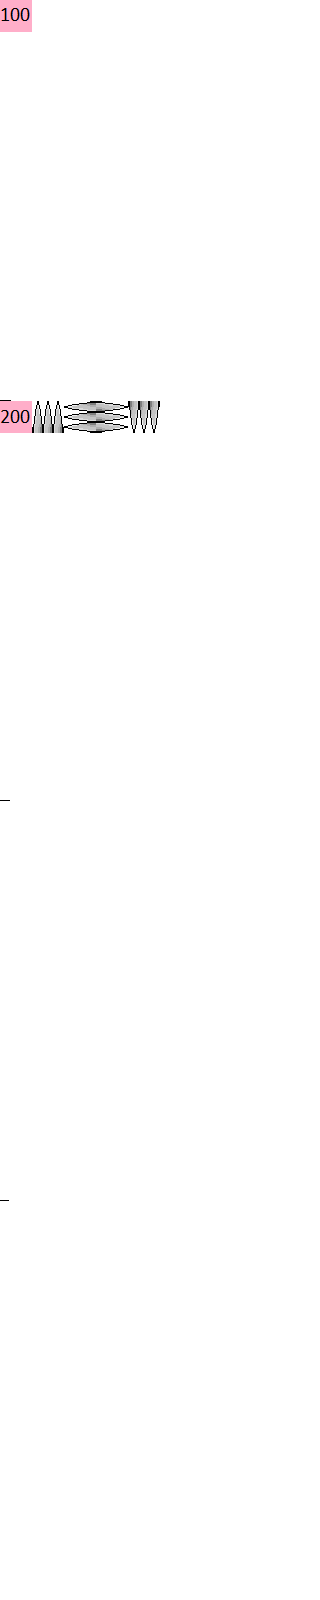
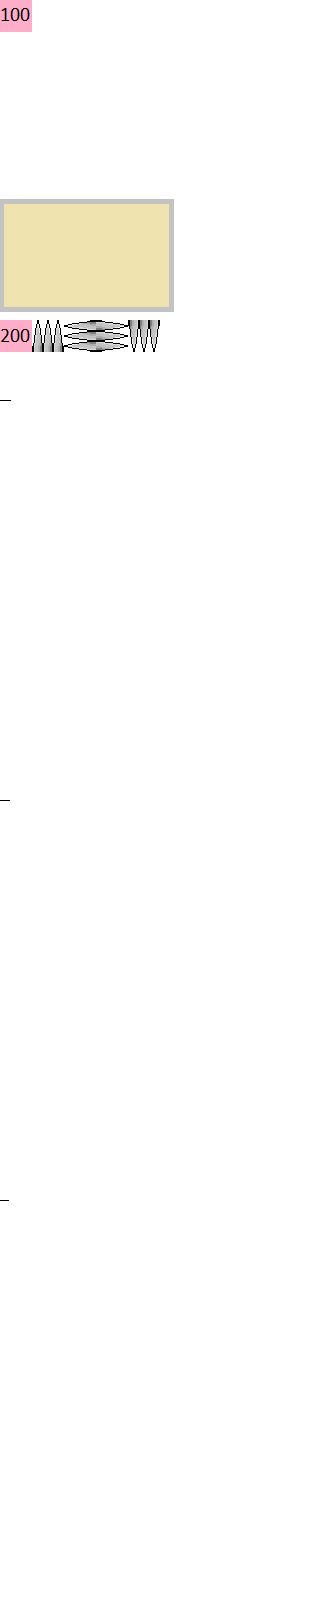
[WIP] display ennemies from Tilemap m_Elements

Changed region(s): [[0.0, 0.125, 0.5625, 0.2188], [0.0, 0.25, 0.5, 0.2812]]

diff --git a/WomxnDevelopUbisoftDemo/Game/TileMap.cpp b/WomxnDevelopUbisoftDemo/Game/TileMap.cpp
@@ -12,17 +12,15 @@ std::vector<Ennemie> TileMap::loadObjects(const std::string& objectset, sf::Vect
 	}
 	
 	// load objectset = image then extract to texture 
-	sf::Image image;
+	/*sf::Image image;
     if (!image.loadFromFile(objectset))
     {
         return std::vector<Ennemie> {};
-    }
+    }*/
         
 	
 	// keep in memory tiles level 
     m_tilesize = tileSize;
-	sf::Vector2u spritesheet = image.getSize();
-    sf::Vector2u n(spritesheet.x / NspriteSize.x, spritesheet.y / NspriteSize.y);
 	
 	std::vector<Ennemie> l_ennemies; 
 	// Find tile of interest 
@@ -30,20 +28,23 @@ std::vector<Ennemie> TileMap::loadObjects(const std::string& objectset, sf::Vect
     for (unsigned int i = 0; i < width; ++i)
         for (unsigned int j = 0; j < height; ++j)
         {
-			if (m_tiles[i + j * width] > 99)
+			if (m_tiles[i + j * width] > 101)
 			{
 				// non movable ennemies 
 				int ntiles = m_tiles[i + j * width] - 100;
-				sf::Vector2u coord((ntiles % n.x)*width, static_cast<unsigned int>(ntiles) / n.x);
-				sf::Vector2f spaw ((i+1) * tileSize.x - tileSize.x/2.0f, (j +1)* tileSize.y - tileSize.y/2.0f);
+                unsigned int tx = (ntiles % NspriteSize.x) * tileSize.x;
+                unsigned int ty = (ntiles / NspriteSize.x) * tileSize.y;
+                sf::Vector2u coord(tx, ty);
+                printf("Coord [x,y] : %d %d \n", tx, ty);
+                sf::Vector2f spaw ((i+1) * tileSize.x - tileSize.x/2.0f, (j +1)* tileSize.y - tileSize.y/2.0f);
                 printf("Tiles n %d \n", i * width + j);
 				if (m_tiles[i + j * width] < 300 && m_tiles[i + j * width] > 129){
                     printf("Ennemie to create\n");
-					l_ennemies.push_back(Ennemie(spaw, false, coord, image, tileSize.x, tileSize.y));
+					l_ennemies.push_back(Ennemie(spaw, false, coord, objectset, tileSize.x, tileSize.y));
 				}
 				else 
 				{
-					l_ennemies.push_back(Ennemie(spaw, true, coord, image, tileSize.x, tileSize.y));
+					l_ennemies.push_back(Ennemie(spaw, true, coord, objectset, tileSize.x, tileSize.y));
 				}
 			}				
 	

diff --git a/WomxnDevelopUbisoftDemo/Game/Ennemie.cpp b/WomxnDevelopUbisoftDemo/Game/Ennemie.cpp
@@ -1,12 +1,15 @@
 #include <stdafx.h>
 #include <Game/Ennemie.h>
 
-Ennemie::Ennemie(sf::Vector2f& spawn_pos, bool canmove, sf::Vector2u& upperleft, const sf::Image& spriteimage, unsigned int sx, unsigned int sy)
+Ennemie::Ennemie(sf::Vector2f& spawn_pos, bool canmove, sf::Vector2u& upperleft, const std::string& spriteimage, unsigned int sx, unsigned int sy)
 	: e_Position(spawn_pos), moving(canmove), _colliding_plateforms(false), e_IsPlayingEndGame(false)
 {
 	e_size = sf::Vector2f(static_cast<float>(sx), static_cast<float>(sy));
+	printf("Coord Texture x,y : %d %d \n", upperleft.x, upperleft.y);
 	// Get texture 
-	e_Texture.loadFromImage(spriteimage, sf::IntRect(upperleft.x, upperleft.y, e_size.x, e_size.y));
+	e_Texture.loadFromFile("Assets\\ennemies_all_black.png", sf::IntRect(32, 320, 32, 32));
+	//if (!e_Texture.loadFromImage(spriteimage, sf::IntRect(upperleft.x, upperleft.y, e_size.x, e_size.y)))
+	//	printf("Texture for Ennemies didnt properly load\n");
 	// Set texture 
 	e_Sprite.setTexture(e_Texture);
 	// Set Origin
@@ -15,6 +18,7 @@ Ennemie::Ennemie(sf::Vector2f& spawn_pos, bool canmove, sf::Vector2u& upperleft,
 	e_Sprite.setPosition(e_Position);
 	// Bounding box
 	SetBoundingBox(e_Position, e_size);
+
 };
 
 Ennemie::~Ennemie() {};
@@ -30,4 +34,10 @@ void Ennemie::draw(sf::RenderTarget& target, sf::RenderStates states) const
 }
 
 
-void Ennemie::Update(float deltaTime) {}; 
+void Ennemie::Update(float deltaTime) 
+{
+	if (moving)
+	{
+		// Do something to update
+	}
+}; 

diff --git a/WomxnDevelopUbisoftDemo/Game/GameDemo.cpp b/WomxnDevelopUbisoftDemo/Game/GameDemo.cpp
@@ -30,7 +30,7 @@ GameDemo::GameDemo()
     // Ennemies 
     m_Elements.loadCsvTilemap("Assets\\levels\\Level1-TMPF-objets-monstres.csv");
     m_Elements.setTilemapType(false);
-    m_ennemies = m_Elements.loadObjects("Assets\\ennemies_empty.png", sf::Vector2u(32, 32), sf::Vector2u(10, 50), 32, 24);
+    m_ennemies = m_Elements.loadObjects("Assets\\ennemies_all_black.png", sf::Vector2u(32, 32), sf::Vector2u(10, 50), 32, 24);
 	
 }
 
@@ -66,7 +66,9 @@ void GameDemo::Render(sf::RenderTarget& target)
 		target.draw(enm); 
 	}
 	
-	
+    //debug display
+    target.draw(m_ennemies[2]);
+
     target.draw(main_Door);
     target.draw(m_Door);
     target.draw(m_MainCharacter);

diff --git a/WomxnDevelopUbisoftDemo/Game/Ennemie.h b/WomxnDevelopUbisoftDemo/Game/Ennemie.h
@@ -3,7 +3,7 @@
 class Ennemie : public sf::Drawable, public BoxCollideable
 {
 public:
-    Ennemie(sf::Vector2f& spawn_pos, bool canmove, sf::Vector2u& upperleft, const sf::Image& spriteimage, unsigned int sx, unsigned int sy);
+    Ennemie(sf::Vector2f& spawn_pos, bool canmove, sf::Vector2u& upperleft, const std::string& spriteimage, unsigned int sx, unsigned int sy);
     ~Ennemie(); 
 
     void Update(float deltaTime);
